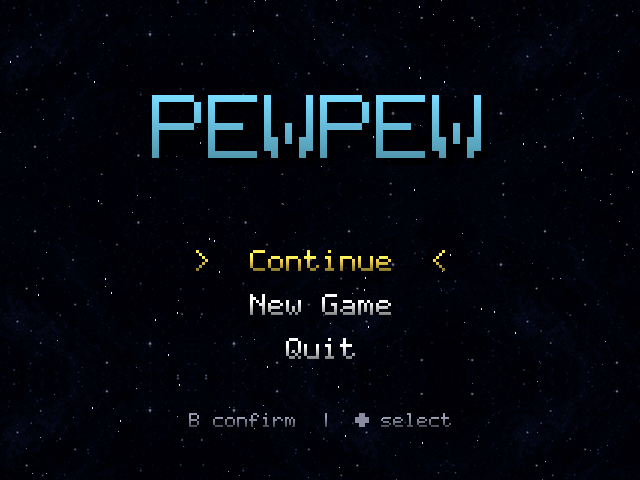
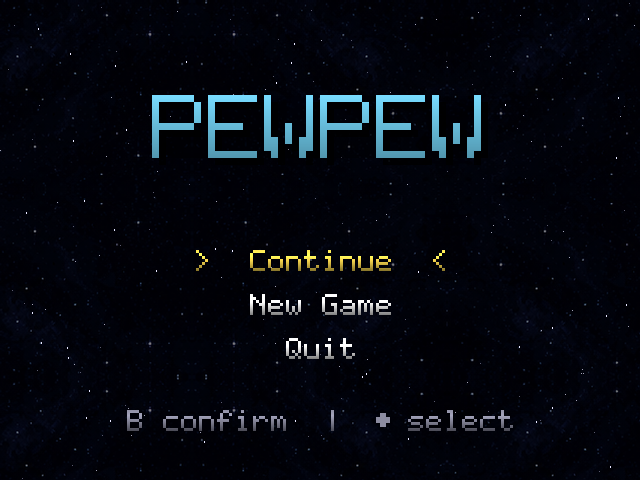
Layout: built-in element registry — title + gameover fully editable
LAYOUT_ELEMENTS registry holds the default x/y/font/color/anchor/text/etc.
for every hardcoded piece of screen chrome. The screen draw code calls
get_element("title", "tip", **vars) and renders the merged dict (defaults
+ override from layout.json). The user edits any of those properties in
the layout editor and they get saved as override entries.

Title screen: logo (position/scale), menu (font/colors/spacing), tip
(text/font/color, supports {dpad} placeholder for the inline icon).
Game-over screen: title, score (templated with {score}), best (with
{best}), tip — all text + font + color + position.

Editor lists built-ins ([B] prefix) alongside user items ([U]). Delete on
a built-in resets it to defaults; delete on a user item removes it.
Preview uses naked backdrops (title_naked / gameover_naked, smoke-rendered
with _RENDER_NAKED=True) so edited elements don't ghost the originals.

diff --git a/pewpew.py b/pewpew.py
@@ -4338,21 +4338,208 @@ def _layout_draw_image(surf, it, assets):
     surf.blit(img, (int(it.get("x", 0)) + ox, int(it.get("y", 0)) + oy))
 
 
+# ---------------------------------------------------------------------------
+# Built-in (chrome) element registry
+# ---------------------------------------------------------------------------
+# Each entry is the *default* spec for one chrome element on a screen. The
+# screen's draw code calls get_element(screen, id) to fetch the merged
+# (defaults + layout.json override) values and renders accordingly. This
+# keeps the position/font/color/text of every label editable through the
+# layout editor without changing how the engine actually composes the
+# screen (menus still respond to game state, blinks still blink, etc.).
+
+LAYOUT_ELEMENTS = {
+    "title": [
+        {"id": "logo", "type": "image",
+         "x": 320, "y": 130, "anchor": "c",
+         "sprite": "title", "scale": 1.0, "alpha": 255,
+         "_label": "PEWPEW logo (with gloss sweep)"},
+        {"id": "menu", "type": "menu",
+         "x": 320, "y": 260, "anchor": "c",
+         "font": 3, "color": [240, 240, 240],
+         "selected_color": [255, 220, 80],
+         "selected_decor": ">  {opt}  <",
+         "unselected_decor": "   {opt}   ",
+         "line_height": 44, "alpha": 255,
+         "_label": "main menu list (Continue / New Game / Quit)",
+         "_preview_options": ["Continue", "New Game", "Quit"]},
+        {"id": "tip", "type": "text",
+         "x": 320, "y": 420, "anchor": "c",
+         "text": "B confirm  |  {dpad} select",
+         "font": 2, "color": [140, 140, 160], "alpha": 255,
+         "shadow": False, "blink": True,
+         "_label": "controls hint (blinks; {dpad} = D-pad icon)"},
+    ],
+    "gameover": [
+        {"id": "title", "type": "text",
+         "x": 320, "y": 180, "anchor": "c",
+         "text": "SHIP LOST", "font": 5,
+         "color": [255, 70, 70], "alpha": 255, "shadow": False,
+         "_label": "headline"},
+        {"id": "score", "type": "text",
+         "x": 320, "y": 240, "anchor": "c",
+         "text": "Score: {score}", "font": 2,
+         "color": [240, 240, 240], "alpha": 255, "shadow": False,
+         "_label": "this run's score ({score} is interpolated)"},
+        {"id": "best", "type": "text",
+         "x": 320, "y": 268, "anchor": "c",
+         "text": "Best: {best}", "font": 1,
+         "color": [140, 140, 160], "alpha": 255, "shadow": False,
+         "_label": "best-ever score ({best} is interpolated)"},
+        {"id": "tip", "type": "text",
+         "x": 320, "y": 320, "anchor": "c",
+         "text": "B return to map", "font": 1,
+         "color": [140, 140, 160], "alpha": 255, "shadow": False,
+         "blink": True,
+         "_label": "return hint (blinks)"},
+    ],
+}
+
+# Override flag: when True, get_element returns None for every lookup so
+# the screen draw skips its built-in chrome. _smoke uses this to capture
+# "naked" backdrops for the layout editor preview (chrome-free reference
+# image so the editor can re-render elements at edited positions without
+# visual ghosting of the originals).
+_RENDER_NAKED = False
+
+
+def _layout_overrides_for(screen_name):
+    """Map id -> override item from layout.json for this screen."""
+    out = {}
+    for it in _layout_load().get(screen_name) or ():
+        rid = it.get("id")
+        if rid:
+            out[rid] = it
+    return out
+
+
+def get_element(screen_name, element_id, **template_vars):
+    """Return the merged spec (defaults + layout.json override) for one
+    built-in chrome element, or None if naked-render mode is active.
+    Interpolates `{name}` placeholders in the text field using template_vars."""
+    if _RENDER_NAKED:
+        return None
+    spec = None
+    for el in LAYOUT_ELEMENTS.get(screen_name, ()):
+        if el.get("id") == element_id:
+            spec = dict(el)
+            break
+    if spec is None:
+        return None
+    override = _layout_overrides_for(screen_name).get(element_id)
+    if override:
+        # Allow override of any field except id/type — type is fixed by
+        # the registry (a text element can't suddenly become a rect).
+        for k, v in override.items():
+            if k in ("id", "type"):
+                continue
+            spec[k] = v
+    text = spec.get("text")
+    if text and template_vars:
+        try:
+            spec["text"] = str(text).format(**template_vars)
+        except (KeyError, IndexError, ValueError):
+            pass
+    return spec
+
+
+def _is_builtin_id(screen_name, item_id):
+    if not item_id:
+        return False
+    for el in LAYOUT_ELEMENTS.get(screen_name, ()):
+        if el.get("id") == item_id:
+            return True
+    return False
+
+
+def _draw_text_with_dpad(surf, it, fonts):
+    """Render a text element with optional {dpad} placeholder replaced by
+    an inline D-pad cross icon. Falls back to plain text rendering when
+    the placeholder is absent."""
+    text = str(it.get("text") or "")
+    if "{dpad}" not in text:
+        _layout_draw_text(surf, it, fonts)
+        return
+    left_txt, right_txt = text.split("{dpad}", 1)
+    scale = max(1, min(7, int(it.get("font", 3))))
+    font = fonts.get(scale) or fonts.get("big")
+    color = tuple(it.get("color") or (240, 240, 240))[:3]
+    alpha = int(it.get("alpha", 255))
+    left = font.render(left_txt, False, color)
+    right = font.render(right_txt, False, color)
+    icon_scale = max(1, scale)   # match the text scale so the icon reads
+    icon_w = 7 * icon_scale
+    icon_h = 7 * icon_scale
+    total_w = left.get_width() + icon_w + right.get_width()
+    h = max(left.get_height(), icon_h, right.get_height())
+    if alpha < 255:
+        left = left.copy(); left.set_alpha(alpha)
+        right = right.copy(); right.set_alpha(alpha)
+    ox, oy = _layout_anchor_offset(it.get("anchor", "tl"), total_w, h)
+    base_x = int(it.get("x", 0)) + ox
+    base_y = int(it.get("y", 0)) + oy
+    text_top = base_y + (h - left.get_height()) // 2
+    icon_top = base_y + (h - icon_h) // 2
+    surf.blit(left, (base_x, text_top))
+    icon_x = base_x + left.get_width()
+    _draw_dpad_icon(surf, icon_x, icon_top, scale=icon_scale, color=color)
+    surf.blit(right, (icon_x + icon_w, text_top))
+
+
+def _layout_draw_menu(surf, it, fonts, options=None):
+    """Render a menu element: every option centered around (x, y), spaced
+    by line_height. The selected option (if any) uses selected_color and
+    selected_decor. Used by both the engine (via TitleScreen) and the
+    overlay path (when previewing in the editor)."""
+    opts = options if options is not None else (it.get("_preview_options") or [])
+    if not opts:
+        return
+    scale = max(1, min(7, int(it.get("font", 3))))
+    font = fonts.get(scale) or fonts.get("big")
+    color = tuple(it.get("color") or (240, 240, 240))[:3]
+    sel_color = tuple(it.get("selected_color") or color)[:3]
+    sel_decor = it.get("selected_decor") or ">  {opt}  <"
+    unsel_decor = it.get("unselected_decor") or "   {opt}   "
+    line_h = int(it.get("line_height", 44))
+    alpha = int(it.get("alpha", 255))
+    cursor = it.get("_preview_cursor", 0)
+    cx = int(it.get("x", 0))
+    y = int(it.get("y", 0))
+    for i, opt in enumerate(opts):
+        sel = (i == cursor)
+        text = (sel_decor if sel else unsel_decor).replace("{opt}", str(opt))
+        c = sel_color if sel else color
+        img = font.render(text, False, c)
+        if alpha < 255:
+            img = img.copy(); img.set_alpha(alpha)
+        rect = img.get_rect(center=(cx, y))
+        surf.blit(img, rect)
+        y += line_h
+
+
 def draw_layout_overlay(surf, screen_name, fonts, assets=None):
-    """Render user-editable overlay items for the named screen.
-    No-op if layout.json doesn't exist or the screen has no items."""
+    """Render user-editable overlay items for the named screen. Skips
+    items whose id matches a built-in element — those are rendered inline
+    by the screen draw via get_element(). User-added items + previews of
+    built-ins (used by the editor) flow through here."""
     items = _layout_load().get(screen_name)
     if not items:
         return
     for it in items:
+        # Engine path: skip built-ins (screen draws them via get_element).
+        # Editor path explicitly clears LAYOUT_ELEMENTS so this is a no-op.
+        if _is_builtin_id(screen_name, it.get("id")):
+            continue
         kind = it.get("type")
         try:
             if kind == "text":
-                _layout_draw_text(surf, it, fonts)
+                _draw_text_with_dpad(surf, it, fonts)
             elif kind == "rect":
                 _layout_draw_rect(surf, it)
             elif kind == "image":
                 _layout_draw_image(surf, it, assets)
+            elif kind == "menu":
+                _layout_draw_menu(surf, it, fonts)
         except Exception as e:
             print(f"layout draw {kind} failed: {e}")
 
@@ -6839,64 +7026,69 @@ class TitleScreen:
         screen.fill(BLACK)
         self.bg_ribbon.draw(screen)
         self.stars.draw(screen)
-        logo = self.app.logo
-        logo_rect = logo.get_rect(center=(SCREEN_W // 2, 130))
-        # Glossy light-wave sweep across the title's editor-defined hitbox,
-        # masked so only the YELLOW areas of the logo brighten.
-        entry = self.app.assets.get("_engine_data", {}).get("title", {})
-        hitbox = entry.get("hitbox")
-        stripe = self.app.title_gloss_stripe
-        yellow_mask = self.app.title_yellow_mask
-        if hitbox and stripe is not None and yellow_mask is not None:
-            hx, hy, hw, hh = hitbox
-            hx = int(hx); hy = int(hy)
-            hw = max(1, int(hw)); hh = max(1, int(hh))
-            stripe_w = stripe.get_width()
-            period = 3.6   # seconds per full sweep
-            travel = hw + stripe_w * 2
-            cycle = (self.t % period) / period
-            stripe_x = int(cycle * travel) - stripe_w
-            overlay = pygame.Surface((hw, hh), pygame.SRCALPHA)
-            overlay.blit(stripe, (stripe_x, 0))
-            # Mask overlay to yellow pixels of the hitbox region.
-            mask_rect = pygame.Rect(hx, hy, hw, hh).clip(yellow_mask.get_rect())
-            if mask_rect.w > 0 and mask_rect.h > 0:
-                overlay.blit(yellow_mask.subsurface(mask_rect),
-                             (mask_rect.x - hx, mask_rect.y - hy),
-                             special_flags=pygame.BLEND_MULT)
-            glossed = logo.copy()
-            glossed.blit(overlay, (hx, hy),
-                         special_flags=pygame.BLEND_RGB_ADD)
-            screen.blit(glossed, logo_rect)
-        else:
-            screen.blit(logo, logo_rect)
 
-        # menu options - bigger, centered, > < markers on both sides of the
-        # selected option. Non-selected rows get matching whitespace so the
-        # text stays aligned across the menu regardless of which row is hot.
-        y = 260
-        for i, opt in enumerate(self.options):
-            sel = i == self.cursor
-            color = YELLOW if sel else WHITE
-            text = f">  {opt}  <" if sel else f"   {opt}   "
-            txt = self.app.fonts["big"].render(text, False, color)
-            screen.blit(txt, txt.get_rect(center=(SCREEN_W // 2, y)))
-            y += 44
+        # --- LOGO --------------------------------------------------------
+        logo_el = get_element("title", "logo")
+        if logo_el is not None:
+            logo = self.app.logo
+            scale = float(logo_el.get("scale", 1.0))
+            if abs(scale - 1.0) > 0.001:
+                sw, sh = logo.get_size()
+                logo = pygame.transform.smoothscale(
+                    logo, (max(1, int(sw * scale)), max(1, int(sh * scale))))
+            anchor = logo_el.get("anchor", "c")
+            ax = _LAYOUT_ANCHOR_AX.get(anchor, 0.5)
+            ay = _LAYOUT_ANCHOR_AY.get(anchor, 0.5)
+            lw, lh = logo.get_size()
+            lx = int(logo_el.get("x", SCREEN_W // 2)) - int(lw * ax)
+            ly = int(logo_el.get("y", 130)) - int(lh * ay)
+            logo_rect = pygame.Rect(lx, ly, lw, lh)
+            # Glossy light-wave sweep across the title's editor-defined hitbox,
+            # masked so only the YELLOW areas of the logo brighten.
+            entry = self.app.assets.get("_engine_data", {}).get("title", {})
+            hitbox = entry.get("hitbox")
+            stripe = self.app.title_gloss_stripe
+            yellow_mask = self.app.title_yellow_mask
+            # Sweep math + hitbox are baked at the original (unscaled) logo
+            # size, so skip the gloss when the user has scaled the logo away
+            # from 1.0× — a plain blit is the safer fallback.
+            if (hitbox and stripe is not None and yellow_mask is not None
+                    and abs(scale - 1.0) < 0.001):
+                hx, hy, hw, hh = hitbox
+                hx = int(hx); hy = int(hy)
+                hw = max(1, int(hw)); hh = max(1, int(hh))
+                stripe_w = stripe.get_width()
+                period = 3.6   # seconds per full sweep
+                travel = hw + stripe_w * 2
+                cycle = (self.t % period) / period
+                stripe_x = int(cycle * travel) - stripe_w
+                overlay = pygame.Surface((hw, hh), pygame.SRCALPHA)
+                overlay.blit(stripe, (stripe_x, 0))
+                mask_rect = pygame.Rect(hx, hy, hw, hh).clip(yellow_mask.get_rect())
+                if mask_rect.w > 0 and mask_rect.h > 0:
+                    overlay.blit(yellow_mask.subsurface(mask_rect),
+                                 (mask_rect.x - hx, mask_rect.y - hy),
+                                 special_flags=pygame.BLEND_MULT)
+                glossed = logo.copy()
+                glossed.blit(overlay, (hx, hy),
+                             special_flags=pygame.BLEND_RGB_ADD)
+                screen.blit(glossed, logo_rect)
+            else:
+                screen.blit(logo, logo_rect)
 
-        if int(self.t * 2) % 2 == 0:
-            font = self.app.fonts["small"]
-            left = font.render("B confirm  |  ", False, DIM)
-            right = font.render(" select", False, DIM)
-            # D-pad icon: square 7x7 footprint scaled to match the small font.
-            icon_w = 7 * 2  # 14 px wide
-            icon_h = 7 * 2  # 14 px tall
-            total_w = left.get_width() + icon_w + right.get_width()
-            base_x = (SCREEN_W - total_w) // 2
-            base_y = 420 - left.get_height() // 2
-            screen.blit(left, (base_x, base_y))
-            _draw_dpad_icon(screen, base_x + left.get_width(),
-                            base_y, scale=2, color=DIM)
-            screen.blit(right, (base_x + left.get_width() + icon_w, base_y))
+        # --- MENU --------------------------------------------------------
+        menu_el = get_element("title", "menu")
+        if menu_el is not None:
+            menu_el = dict(menu_el)
+            menu_el["_preview_cursor"] = self.cursor
+            _layout_draw_menu(screen, menu_el, self.app.fonts,
+                              options=self.options)
+
+        # --- TIP (blinks) ------------------------------------------------
+        tip_el = get_element("title", "tip")
+        if tip_el is not None and (not tip_el.get("blink", True)
+                                   or int(self.t * 2) % 2 == 0):
+            _draw_text_with_dpad(screen, tip_el, self.app.fonts)
 
         draw_layout_overlay(screen, "title", self.app.fonts, self.app.assets)
 
@@ -6917,15 +7109,14 @@ class GameOverScreen:
             self.outcome = ("map", None)
         screen = self.app.screen
         screen.fill(BLACK)
-        b = self.app.fonts["huge"].render("SHIP LOST", False, RED)
-        screen.blit(b, b.get_rect(center=(SCREEN_W // 2, 180)))
-        s = self.app.fonts["small"].render(f"Score: {self.score}", False, WHITE)
-        screen.blit(s, s.get_rect(center=(SCREEN_W // 2, 240)))
-        h = self.app.fonts["tiny"].render(f"Best: {self.app.save.high_score}", False, DIM)
-        screen.blit(h, h.get_rect(center=(SCREEN_W // 2, 268)))
-        if int(self.t * 2) % 2 == 0:
-            p = self.app.fonts["tiny"].render("B return to map", False, DIM)
-            screen.blit(p, p.get_rect(center=(SCREEN_W // 2, 320)))
+        vars_ = {"score": self.score, "best": self.app.save.high_score}
+        for eid in ("title", "score", "best", "tip"):
+            el = get_element("gameover", eid, **vars_)
+            if el is None:
+                continue
+            if eid == "tip" and el.get("blink", True) and int(self.t * 2) % 2 != 0:
+                continue
+            _layout_draw_text(screen, el, self.app.fonts)
         draw_layout_overlay(screen, "gameover", self.app.fonts, self.app.assets)
         return self.outcome
 